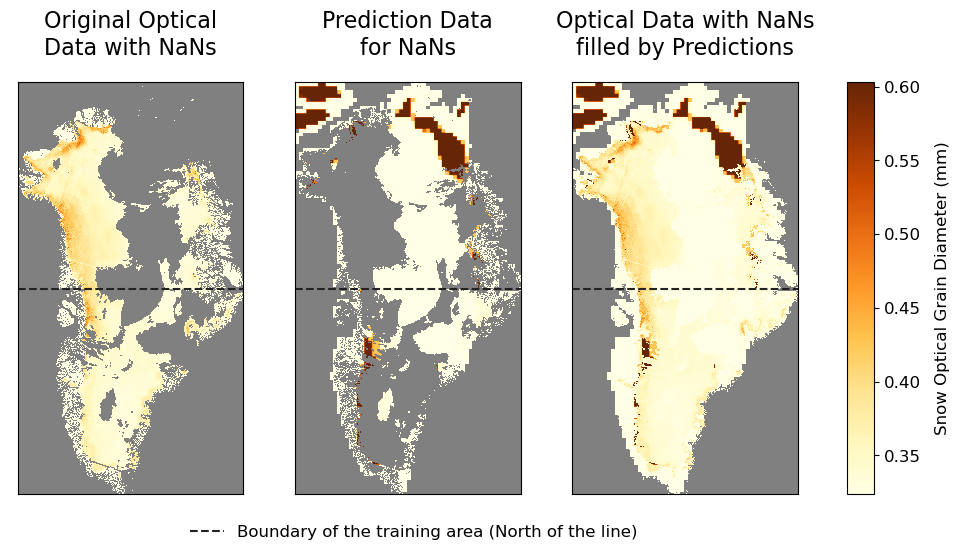
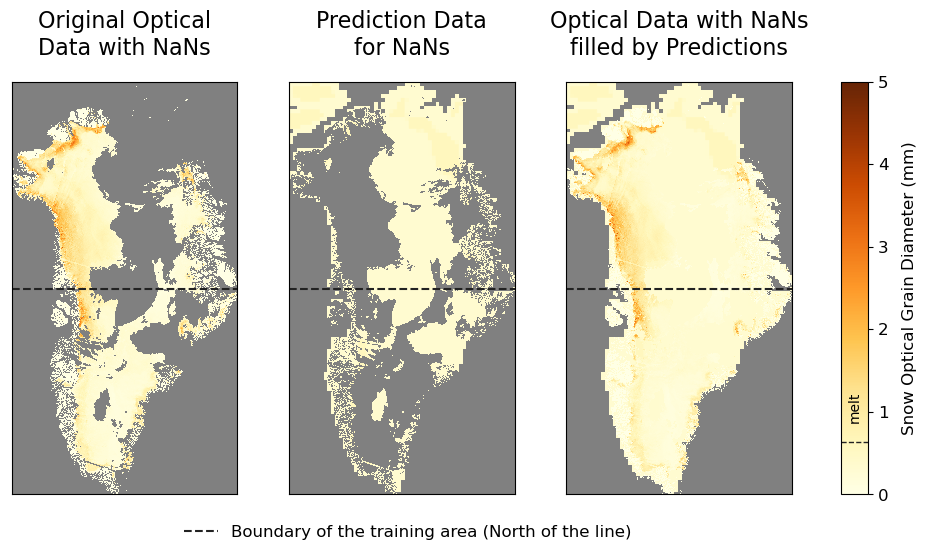
backtransformed y_test in mean_predict

Changed region(s): [[0.2117, 0.0, 0.9978, 0.9909], [0.0, 0.1548, 0.2721, 0.929], [0.0302, 0.0, 0.2419, 0.1548]]

diff --git a/Scripts/functions_model_analysis.py b/Scripts/functions_model_analysis.py
@@ -41,9 +41,7 @@ def import_data(date_from: str, date_to: str, df_path: str, predict_only: str):
     for melt_date in tqdm(date_range):
         # print(melt_date)
         try:  # bc some days are empty
-            file = pd.read_parquet(
-                df_path + "melt_" + melt_date + "_extended.parquet.gzip"
-            )
+            file = pd.read_parquet(df_path + "melt_" + melt_date + "_extended.parquet.gzip")
             file = file.drop(columns=["date"], axis=1)
             if not predict_only:
                 # remove masked data, data with no melt and data with little melt (less than 10% of the time)
@@ -87,13 +85,9 @@ def remove_data(df, removeMaskedClouds=True, removeNoMelt=True, removeLittleMelt
         df = df[df["opt_value"] != -1]
 
     if removeNoMelt and removeLittleMelt:
-        melt_noMelt = pd.read_parquet(
-            r"../AWS_Data/Data/split_indexes/noMelt_indexes.parquet"
-        )
+        melt_noMelt = pd.read_parquet(r"../AWS_Data/Data/split_indexes/noMelt_indexes.parquet")
         # melt_noMelt = pd.read_parquet(r"/mnt/volume/AWS_Data/Data/split_indexes/noMelt_indexes.parquet")
-        melt_littleMelt = pd.read_parquet(
-            r"../AWS_Data/Data/split_indexes/littleMelt_indexes.parquet"
-        )
+        melt_littleMelt = pd.read_parquet(r"../AWS_Data/Data/split_indexes/littleMelt_indexes.parquet")
         # melt_littleMelt = pd.read_parquet(r"/mnt/volume/AWS_Data/Data/split_indexes/littleMelt_indexes.parquet")
 
         df = df.merge(melt_noMelt, how="left", on=["y", "x"])
@@ -111,9 +105,7 @@ def remove_data(df, removeMaskedClouds=True, removeNoMelt=True, removeLittleMelt
 
     elif removeLittleMelt:
         # melt = pd.read_parquet(r"/mnt/volume/AWS_Data/Data/split_indexes/littleMelt_indexes.parquet")
-        melt = pd.read_parquet(
-            r"/../AWS_Data/Data/split_indexes/littleMelt_indexes.parquet"
-        )
+        melt = pd.read_parquet(r"/../AWS_Data/Data/split_indexes/littleMelt_indexes.parquet")
         df = df.merge(melt, how="left", on=["y", "x"])
         df = df[df["melt"] == 1]
         df.pop("melt")
@@ -250,19 +242,11 @@ def model_comparison_plot(model_list, metric="RMSE"):
     test_color = "darkorange"  # Choose a color for the test set bars
     for i, model in enumerate(model_names):
         # Get the train and test metric values for the current model
-        train_val = table[(table["Model"] == model) & (table["Set"] == "Train")][
-            metric
-        ].values[0]
-        test_val = table[(table["Model"] == model) & (table["Set"] == "Test")][
-            metric
-        ].values[0]
+        train_val = table[(table["Model"] == model) & (table["Set"] == "Train")][metric].values[0]
+        test_val = table[(table["Model"] == model) & (table["Set"] == "Test")][metric].values[0]
         # Get the train and test metric standard deviation values for the current model
-        train_val_std = table[(table["Model"] == model) & (table["Set"] == "Train")][
-            metric + "_std"
-        ].values[0]
-        test_val_std = table[(table["Model"] == model) & (table["Set"] == "Test")][
-            metric + "_std"
-        ].values[0]
+        train_val_std = table[(table["Model"] == model) & (table["Set"] == "Train")][metric + "_std"].values[0]
+        test_val_std = table[(table["Model"] == model) & (table["Set"] == "Test")][metric + "_std"].values[0]
         # Create the bar plot
         ax.bar(
             i - width / 2,
@@ -327,7 +311,8 @@ def mean_predict(model, data):
     mean_prediction = np.mean(all_predictions, axis=0)
     std_prediction = np.std(all_predictions, axis=0)
     error_prediction = np.abs(mean_prediction - y_test)
-    error_prediction2 = y_test - mean_prediction
+    y_test_backtransformed = np.exp(y_test) - 1
+    error_prediction2 = y_test_backtransformed - mean_prediction
     df_results = pd.DataFrame(
         {
             "row": data["row"],
